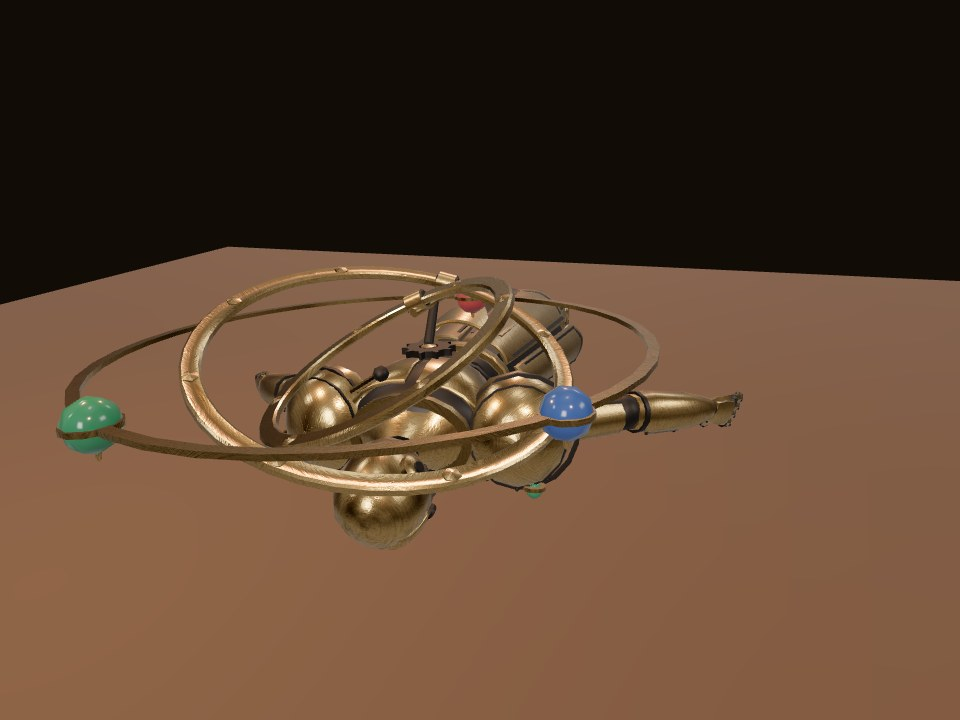
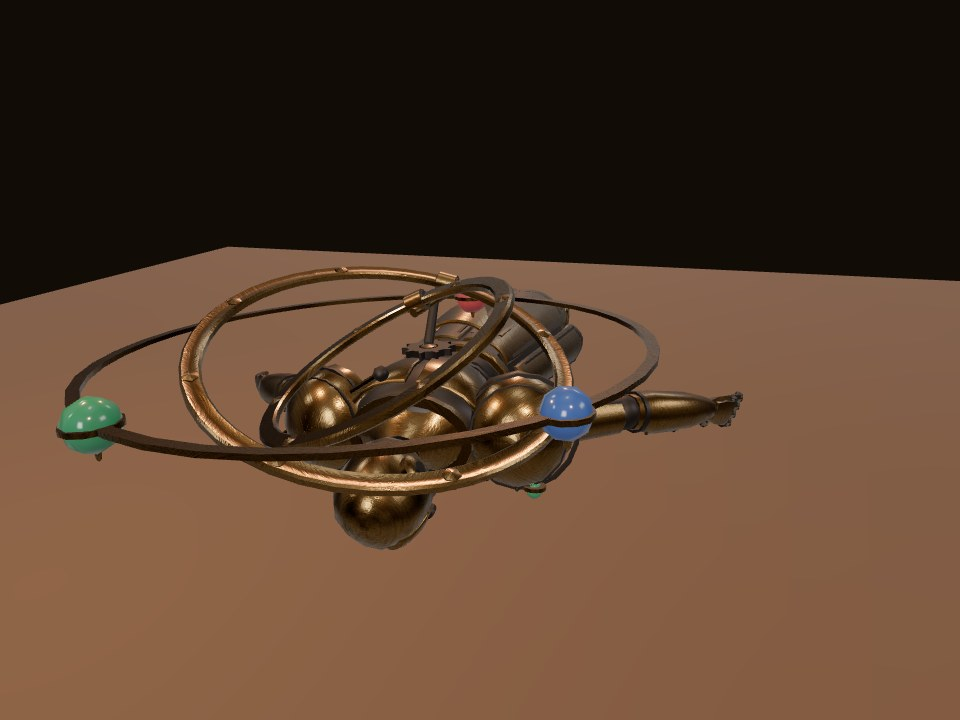
Tint the Orrery Warden's shared brass toward bronze
Enemy manifests gain an optional per-slot tint, a linear-RGB multiplier
that bind() applies to the clone of the shared material set, never the
set itself. asset-check validates it (three numbers in 0..1). The
Warden's brass slot uses [0.33, 0.3, 0.3]: the engine chest median moves
from (115,94,58) to (80,56,33), within the concept's plate range, and
skirt highlights from cream to bronze. The core glow is unchanged.
The independent score of 81 predates the tint; a re-score is pending.

Changed region(s): [[0.0625, 0.3667, 0.7812, 0.7639], [0.0938, 0.4889, 0.125, 0.5194]]

diff --git a/tests/enemy-asset-loader.test.ts b/tests/enemy-asset-loader.test.ts
@@ -1,7 +1,16 @@
 // @vitest-environment node
 import { readFileSync } from 'node:fs';
+import * as THREE from 'three';
 import { afterEach, beforeEach, describe, expect, it, vi } from 'vitest';
-import { EnemyAssetMissing, loadEnemyAsset, loadEnemyAssets } from '../src/enemies/enemy-asset.ts';
+import {
+  EnemyAssetMissing,
+  type EnemyManifest,
+  loadEnemyAsset,
+  loadEnemyAssets,
+  parseEnemyAsset,
+  parseEnemyManifest,
+} from '../src/enemies/enemy-asset.ts';
+import type { PbrSet } from '../src/world/materials.ts';
 
 const base = new URL('../public/assets/enemies/cog-sentry/', import.meta.url);
 const sentryManifest = readFileSync(new URL('cog-sentry.manifest.json', base), 'utf8');
@@ -143,5 +152,83 @@ describe('per-enemy model loader', () => {
     // Each manifest is requested exactly once, the duplicate id included.
     expect(requests.filter((r) => r.endsWith('cog-sentry.manifest.json'))).toHaveLength(1);
     loaded.get('cog-sentry')?.dispose();
+  });
+});
+
+describe('per-slot tint on the shared brass sets', () => {
+  const linear = (r: number, g: number, b: number) =>
+    new THREE.Color().setRGB(r, g, b, THREE.LinearSRGBColorSpace);
+  /** A non-white shared colour, so a multiply cannot pass as an assignment. */
+  const SHARED = linear(0.8, 0.6, 0.4);
+  const fakeSet = (): PbrSet => ({
+    manifest: {},
+    materials: new Map(
+      ['brass-polished', 'brass-aged'].map((name) => [
+        name,
+        new THREE.MeshStandardMaterial({ name, color: SHARED.clone() }),
+      ]),
+    ),
+  });
+  const sentryWith = (tint?: [number, number, number]): EnemyManifest => {
+    const raw = JSON.parse(sentryManifest);
+    if (tint) raw.materialSlots['brass-polished'].tint = tint;
+    return parseEnemyManifest(raw, 'cog-sentry');
+  };
+  const bytes = () =>
+    sentryGlb.buffer.slice(
+      sentryGlb.byteOffset,
+      sentryGlb.byteOffset + sentryGlb.byteLength,
+    ) as ArrayBuffer;
+  const slotColour = (root: THREE.Object3D, name: string): THREE.Color => {
+    let found: THREE.Color | undefined;
+    root.traverse((o) => {
+      if (o instanceof THREE.Mesh && !Array.isArray(o.material) && o.material.name === name)
+        found = (o.material as THREE.MeshStandardMaterial).color;
+    });
+    if (!found) throw new Error(`no ${name} material`);
+    return found;
+  };
+  const expectColour = (got: THREE.Color, want: THREE.Color) => {
+    expect(got.r).toBeCloseTo(want.r, 6);
+    expect(got.g).toBeCloseTo(want.g, 6);
+    expect(got.b).toBeCloseTo(want.b, 6);
+  };
+
+  it('leaves the bound clone at the shared colour when the slot has no tint', async () => {
+    const set = fakeSet();
+    const asset = await parseEnemyAsset(bytes(), sentryWith(), set);
+    const bound = slotColour(asset.template, 'brass-polished');
+    expectColour(bound, SHARED);
+    expect(bound).not.toBe(set.materials.get('brass-polished')?.color);
+    asset.dispose();
+  });
+
+  it('multiplies the clone colour by the tint, on that slot only, and actors keep it', async () => {
+    const asset = await parseEnemyAsset(bytes(), sentryWith([0.5, 0.25, 1]), fakeSet());
+    expectColour(slotColour(asset.template, 'brass-polished'), linear(0.4, 0.15, 0.4));
+    expectColour(slotColour(asset.template, 'brass-aged'), SHARED);
+    const actor = asset.spawn();
+    expectColour(slotColour(actor.object, 'brass-polished'), linear(0.4, 0.15, 0.4));
+    actor.dispose();
+    asset.dispose();
+  });
+
+  it('never mutates the shared material that other enemies and the rooms bind', async () => {
+    const set = fakeSet();
+    const tinted = await parseEnemyAsset(bytes(), sentryWith([0.28, 0.25, 0.3]), set);
+    const plain = await parseEnemyAsset(bytes(), sentryWith(), set);
+    for (const material of set.materials.values()) expectColour(material.color, SHARED);
+    expectColour(slotColour(plain.template, 'brass-polished'), SHARED);
+    tinted.dispose();
+    plain.dispose();
+  });
+
+  it('rejects a tint that is not three numbers in 0..1', () => {
+    for (const bad of [[1.2, 0, 0], [0.5, 0.5], ['0.5', 0, 0], [-0.1, 0, 0], 0.5]) {
+      const raw = JSON.parse(sentryManifest);
+      raw.materialSlots['brass-polished'].tint = bad;
+      expect(() => parseEnemyManifest(raw, 'cog-sentry')).toThrow(/tint/);
+    }
+    expect(sentryWith([0, 1, 0.3]).materialSlots['brass-polished']?.tint).toEqual([0, 1, 0.3]);
   });
 });

diff --git a/src/enemies/enemy-asset.ts b/src/enemies/enemy-asset.ts
@@ -52,6 +52,12 @@ export interface EnemyMaterialSlot {
   emissive?: boolean;
   tileMeters?: number;
   normalScale?: number;
+  /**
+   * Linear-RGB multiplier (each component 0..1) on the bound clone of the shared set's `color`, so
+   * one enemy can pull the shared brass toward its concept without touching the set other enemies
+   * and the rooms share. Absent: the set's colour unchanged.
+   */
+  tint?: [number, number, number];
 }
 
 export interface EnemyManifest {
@@ -97,6 +103,16 @@ export function parseEnemyManifest(raw: unknown, id?: string): EnemyManifest {
   }
   if (!m.materialSlots || !m.emissive?.material)
     throw new Error(`${who} manifest: materialSlots or emissive missing`);
+  for (const [name, slot] of Object.entries(m.materialSlots)) {
+    const tint: unknown = slot?.tint;
+    if (tint === undefined) continue;
+    if (
+      !Array.isArray(tint) ||
+      tint.length !== 3 ||
+      !tint.every((c) => typeof c === 'number' && c >= 0 && c <= 1)
+    )
+      throw new Error(`${who} manifest: slot ${name} tint must be three numbers in 0..1`);
+  }
   return m as EnemyManifest;
 }
 
@@ -226,6 +242,8 @@ export async function parseEnemyAsset(
       const clone = shared.clone();
       const s = slot?.normalScale ?? 1;
       clone.normalScale.set(s, s);
+      if (slot?.tint)
+        clone.color.multiply(new THREE.Color().setRGB(...slot.tint, THREE.LinearSRGBColorSpace));
       clone.name = source.name;
       material = clone;
     }

diff --git a/assets-source/enemies/orrery-warden/engine-proof.ts b/assets-source/enemies/orrery-warden/engine-proof.ts
@@ -59,6 +59,8 @@ export async function mountAutomatonProof(id: string, width: number, height: num
     if (shared) {
       const clone = shared.clone();
       clone.normalScale.set(slot.normalScale ?? 1, slot.normalScale ?? 1);
+      if (slot.tint)
+        clone.color.multiply(new THREE.Color().setRGB(...slot.tint, THREE.LinearSRGBColorSpace));
       clone.name = source.name;
       material = clone;
     }

diff --git a/scripts/assets/asset-check.py b/scripts/assets/asset-check.py
@@ -312,7 +312,8 @@ ENEMY_META = {
     "spring-hound": {**_P5_META, "materials_used": "approved P4-T3 brass-polished and brass-aged sets bound by slot name at runtime; gunmetal and hound-glow are factor-only"},
     "bellows-golem": {**_P5_META, "materials_used": "approved P4-T3 brass-polished set bound by slot name at runtime; golem-case (walnut, pleats from COLOR_0), golem-metal (gunmetal and emerald from COLOR_0) and golem-glow are factor-only"},
     "orrery-warden": {**_P5_META, "reference_note": _P5_META["reference_note"].replace("P5-T3", "P5-T4"),
-                      "materials_used": "approved P4-T3 brass-polished set bound by slot name at runtime; gunmetal, warden-glow and warden-jewel "
+                      "materials_used": "approved P4-T3 brass-polished set bound by slot name at runtime and tinted by the manifest slot tint "
+                                        "[0.33, 0.3, 0.3] (linear multiplier); gunmetal, warden-glow and warden-jewel "
                                         "(ruby, sapphire and emerald from COLOR_0) are factor-only"},
     GUARDIAN: {**_P5_META, "reference_note": _P5_META["reference_note"].replace("P5-T3", "P5-T4"),
                "materials_used": "approved P4-T3 brass-polished set bound by slot name at runtime; escapement-case (mahogany, dark iron, "
@@ -368,6 +369,11 @@ def check_enemy(enemy: str, errors: list[str], warnings: list[str]) -> dict:
     unknown = [n for n in glb["materials"] if n not in m.get("materialSlots", {})]
     if unknown:
         err(f"GLB material slots missing from the manifest: {unknown}")
+    for name, slot in m.get("materialSlots", {}).items():  # optional tint: linear multiplier on the shared set's colour
+        tint = slot.get("tint")
+        if tint is not None and not (isinstance(tint, list) and len(tint) == 3
+                                     and all(isinstance(c, (int, float)) and not isinstance(c, bool) and 0 <= c <= 1 for c in tint)):
+            err(f"material slot {name} tint must be three numbers in 0..1 (got {tint!r})")
     if abs(m.get("bounds", {}).get("min", [0, 1, 0])[1]) > 1e-3:
         err("rest pose must stand on y = 0")
 

diff --git a/scripts/assets/build-orrery-warden.py b/scripts/assets/build-orrery-warden.py
@@ -73,6 +73,9 @@ BRASS = "brass-polished"  # the shared P4-T3 set the brass slot is named after (
 MATS = [BRASS, "gunmetal", GLOW, JEWEL]
 BP, GM, GL, JW = range(4)
 SETS = {BRASS: 0.35}  # shared set -> normal scale (as on the combat table)
+# Linear-RGB multiplier on the bound shared set's colour (manifest slot `tint`, enemy-asset.ts bind()):
+# pulls the shared light brass toward the concept's dark bronze; measured on the engine glow-close shot.
+TINTS = {BRASS: [0.33, 0.3, 0.3]}
 TILE_METERS = 0.5  # the brass set tiles at 0.5 m (public/assets/materials/materials.json)
 FACTORS = {  # sRGB base, roughness, metallic: the GLB look, and the fallback when the set fails
     BRASS: ((0xDE, 0xC1, 0x6A), 0.3, 1.0),
@@ -1650,7 +1653,8 @@ def build_manifest(gate: dict, cull: dict) -> dict:
         "sockets": gate["sockets"],
         "emissive": {"material": GLOW, "color": "#{:02X}{:02X}{:02X}".format(*GLOW_SRGB), "intensity": GLOW_STRENGTH,
                      "nodes": ["socket-eye", "socket-hit"]},
-        "materialSlots": {name: ({"set": name, "tileMeters": TILE_METERS, "normalScale": SETS[name]} if name in SETS
+        "materialSlots": {name: ({"set": name, "tileMeters": TILE_METERS, "normalScale": SETS[name],
+                                  **({"tint": TINTS[name]} if name in TINTS else {})} if name in SETS
                                  else {"set": None, "factorOnly": True, **({"emissive": True} if name == GLOW else {})}) for name in MATS},
         "budget": {"tris": gate["triangles"], "materials": len(gate["materials"]), "bones": gate["bone_count"], "influences": LIMITS["influences"]},
         "cull": {"center": cull["center"], "radius": cull["radius"]},
